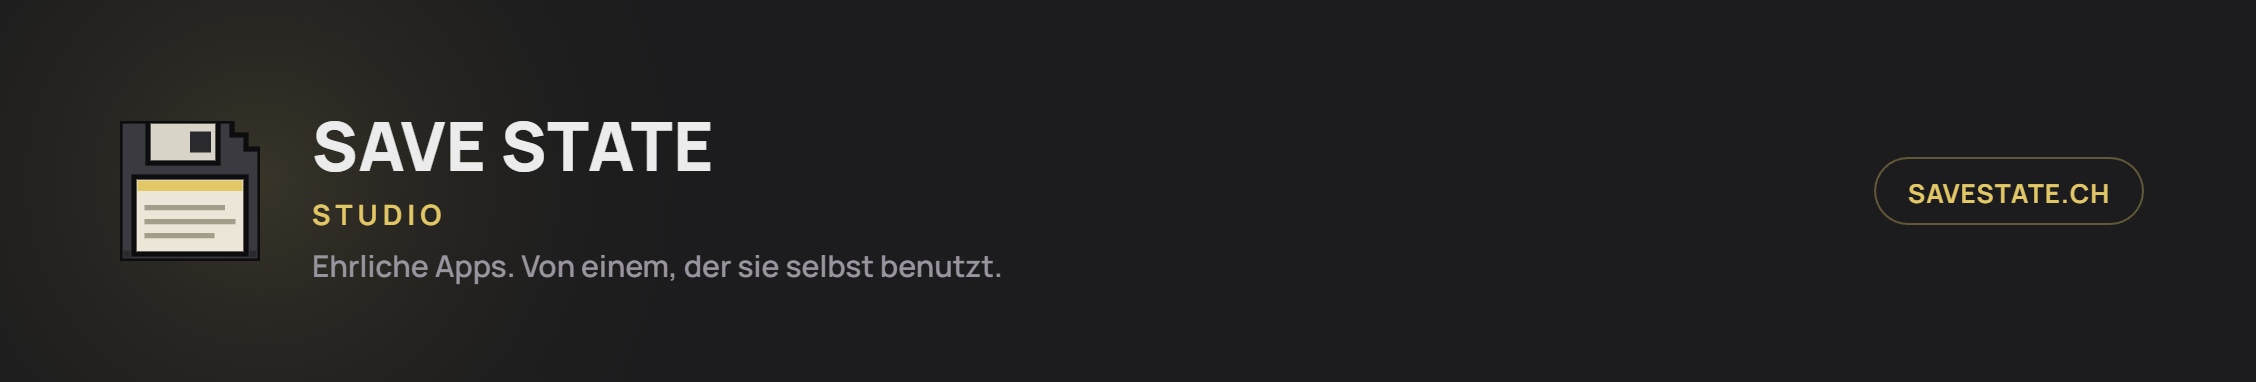
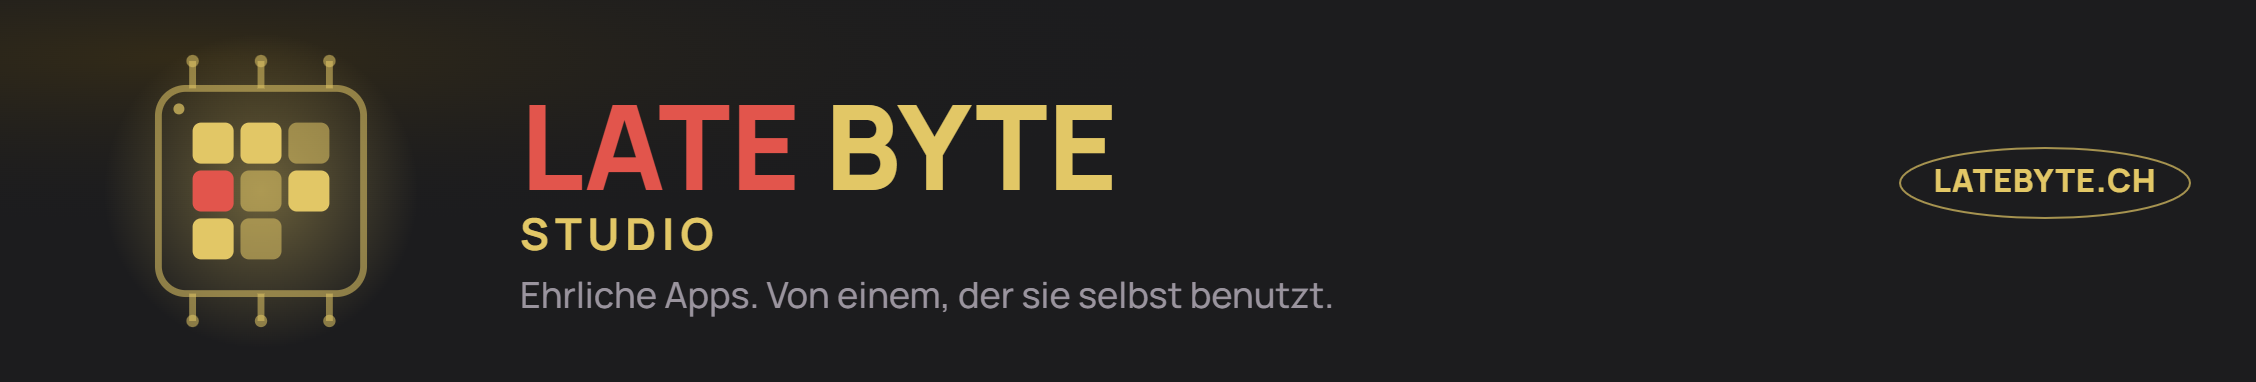
Rebrand social media kit from Save State Studio to Late Byte
The kit still had the old name, old domain (savestate.ch) and the
retired pixel-art floppy disk icon throughout - flagged as a known gap
in APEX-LIFTER/CLAUDE.md and save-state-studio/CLAUDE.md when the main
site was renamed earlier. Brings it in line with the current brand.

Content: renamed every "Save State Studio" reference to "Late Byte"
across setup steps, profile texts (LinkedIn About, Instagram bio),
content calendar, and all 5 post captions; domain/email references
switched to latebyte.ch; LinkedIn page slug and Instagram handle
suggestions updated (late-byte / latebyte).

Images: rebuilt all 6 assets (profile picture, LinkedIn banner, 4
Instagram post images) around the current chip/byte icon and gold+red
palette instead of the retired floppy disk (gold+cream+gray only),
same layout templates as before. Built as true-size SVGs (512x512,
2256x382, 1620x1620) rendered to canvas for crisp export - hit and
fixed a real bug along the way: an SVG serialized to a blob and loaded
via `new Image()` does not inherit the host page's linked Google Font,
so text silently fell back to serif. Fixed by fetching the Manrope
woff2 directly, embedding it as a base64 data URI in an in-SVG
@font-face (plus an explicit `text { font-family }` rule, since the
page's CSS selector targeting `text` doesn't carry over either), before
serializing each asset.

Changed region(s): [[0.031, 0.144, 0.5895, 0.8639], [0.8378, 0.3743, 0.9619, 0.6047]]

diff --git a/index.html b/index.html
@@ -4,7 +4,7 @@
 <meta charset="utf-8">
 <meta name="viewport" content="width=device-width, initial-scale=1">
 <title>Social Media Kit</title>
-<meta name="description" content="LinkedIn- und Instagram-Auftritt für Save State Studio: Profiltexte, Strategie, Redaktionsplan, fertige Posts und Bild-Assets.">
+<meta name="description" content="LinkedIn- und Instagram-Auftritt für Late Byte: Profiltexte, Strategie, Redaktionsplan, fertige Posts und Bild-Assets.">
 <link rel="preconnect" href="https://fonts.googleapis.com">
 <link href="https://fonts.googleapis.com/css2?family=Manrope:wght@500;600;700;800&display=swap" rel="stylesheet">
 <style>
@@ -14,6 +14,7 @@
     --card: rgba(226, 199, 102, 0.05);
     --card-border: rgba(226, 199, 102, 0.14);
     --gold: #E2C766;
+    --red: #E2554C;
     --cream: #ece6d8;
     --text: #ECECEC;
     --text-muted: #9a949e;
@@ -182,19 +183,19 @@
   </nav>
 
   <div class="hero">
-    <img class="icon" src="images/profile_picture.png" alt="Save State Studio Icon" width="56" height="56" style="border-radius:14px;">
+    <img class="icon" src="images/profile_picture.png" alt="Late Byte Icon" width="56" height="56" style="border-radius:14px;">
     <div>
       <span class="eyebrow">Social Media Kit</span>
-      <h1 class="title">Save State Studio auf LinkedIn &amp; Instagram</h1>
+      <h1 class="title">Late Byte auf LinkedIn &amp; Instagram</h1>
       <p class="lede">Kein Produkt-Marketing für Apex Lifter selbst, sondern der Auftritt für das Studio dahinter: ein Vollzeit-Job tagsüber, Code nach Feierabend, keine Investoren, kein Wachstums-Zwang — nur ehrliche Apps zu einem fairen Preis, gebaut von jemandem, der sie selbst täglich benutzt.</p>
       <div class="accounts">
         <span class="account-chip">
           <svg width="15" height="15" viewBox="0 0 24 24" fill="none" stroke="currentColor" stroke-width="2" stroke-linecap="round" stroke-linejoin="round"><rect x="2" y="9" width="4" height="12"/><circle cx="4" cy="4" r="2"/><path d="M10 9v12M10 13a4 4 0 0 1 8 0v8"/></svg>
-          LinkedIn — nicola.placi@savestate.ch
+          LinkedIn — nicola.placi@latebyte.ch
         </span>
         <span class="account-chip">
           <svg width="15" height="15" viewBox="0 0 24 24" fill="none" stroke="currentColor" stroke-width="2" stroke-linecap="round" stroke-linejoin="round"><rect x="2" y="2" width="20" height="20" rx="5"/><circle cx="12" cy="12" r="4"/><circle cx="17.5" cy="6.5" r="1"/></svg>
-          Instagram — info@savestate.ch
+          Instagram — info@latebyte.ch
         </span>
       </div>
     </div>
@@ -204,7 +205,7 @@
   <section id="setup">
     <span class="section-eyebrow">01 — Erste Schritte</span>
     <h2 class="section-title">Konten anlegen</h2>
-    <p class="section-intro">Beide Konten existieren noch nicht. Voraussetzung: die Domain <code>savestate.ch</code> und die beiden E-Mail-Adressen müssen zuerst eingerichtet sein. Danach diese Schritte mit den vorbereiteten Texten und Bildern aus diesem Kit.</p>
+    <p class="section-intro">Beide Konten existieren noch nicht. Voraussetzung: die Domain <code>latebyte.ch</code> und die beiden E-Mail-Adressen müssen zuerst eingerichtet sein. Danach diese Schritte mit den vorbereiteten Texten und Bildern aus diesem Kit.</p>
     <div class="grid-2">
       <div class="card">
         <div class="card-head">
@@ -212,13 +213,13 @@
           <h3>LinkedIn Unternehmensseite</h3>
         </div>
         <ol class="steps">
-          <li>Falls noch nicht vorhanden: erst ein <strong>persönliches</strong> LinkedIn-Profil mit <code>nicola.placi@savestate.ch</code> anlegen — eine Unternehmensseite braucht immer mindestens ein persönliches Profil als Administrator.</li>
-          <li>Oben rechts auf <strong>„Für Unternehmen“ → „Unternehmensseite erstellen“</strong>.</li>
+          <li>Falls noch nicht vorhanden: erst ein <strong>persönliches</strong> LinkedIn-Profil mit <code>nicola.placi@latebyte.ch</code> anlegen — eine Unternehmensseite braucht immer mindestens ein persönliches Profil als Administrator.</li>
+          <li>Oben rechts auf <strong>„Für Unternehmen" → „Unternehmensseite erstellen"</strong>.</li>
           <li>Seitentyp: <strong>Kleinunternehmen</strong>.</li>
-          <li>Seitenname <code>Save State Studio</code>, LinkedIn-Adresse z. B. <code>linkedin.com/company/save-state-studio</code>, Website <code>savestate.ch</code>.</li>
+          <li>Seitenname <code>Late Byte</code>, LinkedIn-Adresse z. B. <code>linkedin.com/company/late-byte</code>, Website <code>latebyte.ch</code>.</li>
           <li>Branche: <strong>Softwareentwicklung</strong>. Unternehmensgrösse: <strong>Selbstständig</strong>.</li>
           <li>Logo hochladen: <code>profile_picture.png</code>. Titelbild: <code>linkedin_banner.png</code>.</li>
-          <li>Beschreibung einfügen — Text unten unter „Profiltexte“.</li>
+          <li>Beschreibung einfügen — Text unten unter „Profiltexte".</li>
         </ol>
       </div>
       <div class="card">
@@ -227,12 +228,12 @@
           <h3>Instagram Business-Konto</h3>
         </div>
         <ol class="steps">
-          <li>In der Instagram-App: <strong>„Registrieren“</strong>, E-Mail <code>info@savestate.ch</code> verwenden.</li>
-          <li>Benutzername: <code>savestatestudio</code> (Alternative, falls vergeben: <code>save.state.studio</code> oder <code>savestate.ch</code>).</li>
-          <li>Einstellungen → Konto → <strong>„Zu professionellem Konto wechseln“</strong> → Kategorie „Softwareunternehmen“ oder „App-Seite“ → Typ <strong>Unternehmen</strong>.</li>
+          <li>In der Instagram-App: <strong>„Registrieren"</strong>, E-Mail <code>info@latebyte.ch</code> verwenden.</li>
+          <li>Benutzername: <code>latebyte</code> (Alternative, falls vergeben: <code>late.byte</code> oder <code>latebyte.ch</code>).</li>
+          <li>Einstellungen → Konto → <strong>„Zu professionellem Konto wechseln"</strong> → Kategorie „Softwareunternehmen" oder „App-Seite" → Typ <strong>Unternehmen</strong>.</li>
           <li>Profilbild hochladen: <code>profile_picture.png</code>.</li>
-          <li>Bio einfügen — Text unten unter „Profiltexte“. Website-Link: <code>savestate.ch</code>.</li>
-          <li>Kontakt-E-Mail in den Business-Einstellungen: <code>info@savestate.ch</code>.</li>
+          <li>Bio einfügen — Text unten unter „Profiltexte". Website-Link: <code>latebyte.ch</code>.</li>
+          <li>Kontakt-E-Mail in den Business-Einstellungen: <code>info@latebyte.ch</code>.</li>
         </ol>
       </div>
     </div>
@@ -242,7 +243,7 @@
   <section id="profile">
     <span class="section-eyebrow">02 — Zum Reinkopieren</span>
     <h2 class="section-title">Profiltexte</h2>
-    <p class="section-intro">In der Ich-Form geschrieben — das ist ein Ein-Personen-Studio, kein anonymes Unternehmen. Auf „Kopieren“ tippen und direkt ins jeweilige Feld einfügen.</p>
+    <p class="section-intro">In der Ich-Form geschrieben — das ist ein Ein-Personen-Studio, kein anonymes Unternehmen. Auf „Kopieren" tippen und direkt ins jeweilige Feld einfügen.</p>
     <div class="grid-2">
       <div class="card">
         <div class="card-head">
@@ -255,9 +256,9 @@
         </div>
         <div class="field">
           <div class="field-label"><span>Über uns</span><button class="copy-btn" data-copy="li-about">Kopieren</button></div>
-          <div class="field-text" id="li-about">Save State Studio ist ein Ein-Personen-Studio — geführt neben einem Vollzeit-Job, abends und am Wochenende, wenn Zeit für Familie und Code beides Platz hat.
+          <div class="field-text" id="li-about">Late Byte ist ein Ein-Personen-Studio — geführt neben einem Vollzeit-Job, abends und am Wochenende, wenn Zeit für Familie und Code beides Platz hat.
 
-Der Antrieb ist einfach: Apps bauen, die mir selbst gefehlt haben, und die ich danach jeden Tag benutze. Keine Investoren, kein Wachstums-Zwang, kein Marketing-Gerede — nur ehrliche Software zu einem fairen Preis.
+Der Name ist Programm: der Code entsteht spät, wenn die Kinder schlafen. Der Antrieb ist einfach: Apps bauen, die mir selbst gefehlt haben, und die ich danach jeden Tag benutze. Keine Investoren, kein Wachstums-Zwang, kein Marketing-Gerede — nur ehrliche Software zu einem fairen Preis.
 
 Erstes Projekt: Apex Lifter, eine native Android-Trainings-App, die ich selbst im Gym benutze. Mehr dazu: apexlifter.ch
 
@@ -275,13 +276,13 @@ Keine Werbung. Kein Tracking-Zwang. Und wer Apex Lifter schon nutzt: gerne als F
         </div>
         <div class="field">
           <div class="field-label"><span>Name</span></div>
-          <div class="field-text">Save State Studio</div>
+          <div class="field-text">Late Byte</div>
         </div>
         <div class="field">
           <div class="field-label"><span>Bio (max. 150 Zeichen)</span><button class="copy-btn" data-copy="ig-bio">Kopieren</button></div>
           <div class="field-text" id="ig-bio">Vollzeit-Job tagsüber. Code nach Feierabend.
 Ehrliche Apps, fair bepreist, ohne Ads.
-savestate.ch</div>
+latebyte.ch</div>
         </div>
         <div class="field">
           <div class="field-label"><span>Kategorie</span></div>
@@ -361,8 +362,8 @@ savestate.ch</div>
       <table class="cal">
         <thead><tr><th>Woche</th><th>Plattform</th><th>Inhalt</th></tr></thead>
         <tbody>
-          <tr><td rowspan="2">1 — Launch</td><td><span class="platform-tag li">LinkedIn</span></td><td>Build-in-Public-Ankündigung (Entwurf unten) — warum Save State Studio existiert.</td></tr>
-          <tr><td><span class="platform-tag ig">Instagram</span></td><td>Intro-Post (Entwurf 1) + Story mit Link zu savestate.ch.</td></tr>
+          <tr><td rowspan="2">1 — Launch</td><td><span class="platform-tag li">LinkedIn</span></td><td>Build-in-Public-Ankündigung (Entwurf unten) — warum Late Byte existiert.</td></tr>
+          <tr><td><span class="platform-tag ig">Instagram</span></td><td>Intro-Post (Entwurf 1) + Story mit Link zu latebyte.ch.</td></tr>
           <tr><td rowspan="2">2 — Prinzip</td><td><span class="platform-tag ig">Instagram</span></td><td>No-Bullshit-Manifest (Entwurf 2): fairer Preis, keine Ads, kein Wachstums-Zwang.</td></tr>
           <tr><td><span class="platform-tag ig">Instagram</span></td><td>Story-Umfrage: „Nervt dich Werbung in Apps auch so sehr?"</td></tr>
           <tr><td rowspan="2">3 — Beweis</td><td><span class="platform-tag ig">Instagram</span></td><td>Dogfooding-Zitat (Entwurf 3): „Ich nutze Apex Lifter jeden Tag im Gym."</td></tr>
@@ -381,22 +382,22 @@ savestate.ch</div>
     <p class="section-intro">Bild direkt aus „Assets" verwenden, Text unverändert oder als Ausgangspunkt nutzen.</p>
     <div class="post-list">
       <div class="post-card">
-        <img src="images/post1_intro.png" alt="Save State Studio Intro-Post">
+        <img src="images/post1_intro.png" alt="Late Byte Intro-Post">
         <div class="post-body">
           <div class="post-platform">Instagram — Post 1</div>
-          <div class="post-caption">Save State Studio ist da.
+          <div class="post-caption">Late Byte ist da.
 
 Ein Ein-Personen-Studio. Vollzeit-Job tagsüber, Code nach Feierabend. Keine Investoren, kein Wachstums-Zwang.
 
 Erste App: Apex Lifter — eine Trainings-App, die ich selbst jeden Tag benutze.
 
-savestate.ch</div>
+latebyte.ch</div>
           <div class="post-hashtags">#indiedev #buildinpublic #nobullshit #androiddev #soloedev</div>
         </div>
       </div>
 
       <div class="post-card">
-        <img src="images/post2_manifesto.png" alt="Save State Studio No-Bullshit-Manifest">
+        <img src="images/post2_manifesto.png" alt="Late Byte No-Bullshit-Manifest">
         <div class="post-body">
           <div class="post-platform">Instagram — Post 2</div>
           <div class="post-caption">Keine Ads. Kein Marketing-Gerede. Nur eine geile App.
@@ -409,12 +410,12 @@ No-Bullshit-Software, von jemandem, der sie täglich benutzt.</div>
       </div>
 
       <div class="post-card">
-        <img src="images/post3_quote.png" alt="Save State Studio Dogfooding-Zitat">
+        <img src="images/post3_quote.png" alt="Late Byte Dogfooding-Zitat">
         <div class="post-body">
           <div class="post-platform">Instagram — Post 3</div>
           <div class="post-caption">„Ich nutze Apex Lifter jeden Tag im Gym. Nicht weil ich muss — weil sie mir gefehlt hat, bevor ich sie gebaut habe."
 
-So einfach ist das Prinzip hinter Save State Studio: Apps, die ihr Macher selbst benutzt.
+So einfach ist das Prinzip hinter Late Byte: Apps, die ihr Macher selbst benutzt.
 
 apexlifter.ch</div>
           <div class="post-hashtags">#dogfooding #indiedev #krafttraining #buildwhatyouneed</div>
@@ -422,7 +423,7 @@ apexlifter.ch</div>
       </div>
 
       <div class="post-card">
-        <img src="images/post4_friend.png" alt="Save State Studio Freunde/Buzz-Insider-Post">
+        <img src="images/post4_friend.png" alt="Late Byte Freunde/Buzz-Insider-Post">
         <div class="post-body">
           <div class="post-platform">Instagram — Post 4</div>
           <div class="post-caption">Kleiner Insider für alle, die Apex Lifter schon nutzen:
@@ -435,16 +436,16 @@ Gebaut von einem, der nach Feierabend — und nach der Familie — noch selbst a
       </div>
 
       <div class="post-card">
-        <img src="images/linkedin_banner.png" alt="Save State Studio LinkedIn-Post" style="object-position: center;">
+        <img src="images/linkedin_banner.png" alt="Late Byte LinkedIn-Post" style="object-position: center;">
         <div class="post-body">
           <div class="post-platform">LinkedIn — Launch-Post</div>
-          <div class="post-caption">Ich habe ein neues kleines Studio gegründet: Save State Studio.
+          <div class="post-caption">Ich habe ein neues kleines Studio gegründet: Late Byte.
 
 Kein grosses Team, keine Investoren — ein Vollzeit-Job tagsüber, und abends/am Wochenende Zeit für das, was mir schon lange gefehlt hat: Software, die ehrlich ist. Fairer Preis. Keine Werbung. Kein Wachstums-Zwang um seiner selbst willen.
 
 Das erste Projekt ist bereits live: Apex Lifter, eine native Android-Trainings-App, die ich selbst jeden Tag im Gym benutze.
 
-Mehr über die Philosophie dahinter und was als Nächstes kommt: savestate.ch</div>
+Mehr über die Philosophie dahinter und was als Nächstes kommt: latebyte.ch</div>
           <div class="post-hashtags">#buildinpublic #indiedev #softwarecraft #nobullshit</div>
         </div>
       </div>
@@ -455,7 +456,7 @@ Mehr über die Philosophie dahinter und was als Nächstes kommt: savestate.ch</d
   <section id="assets">
     <span class="section-eyebrow">06 — Bild-Material</span>
     <h2 class="section-title">Assets</h2>
-    <p class="section-intro">Pixel-Art-Disketten-Icon in Gold auf Dunkelgrau, Manrope als Schrift — bewusst reduzierter als das Apex-Lifter-Branding: kein Violett, nur Gold + Grau + Cream, für einen ruhigeren, persönlicheren „Studio statt Produkt"-Look.</p>
+    <p class="section-intro">Chip/Byte-Icon (ein Prozessor mit 8 Bits, eines davon rot) in Gold + Rot auf Dunkelgrau, Manrope als Schrift — das Studio-eigene Zwei-Farben-System, bewusst anders als das violette Apex-Lifter-Branding, für einen ruhigeren, persönlicheren „Studio statt Produkt"-Look.</p>
     <div class="asset-grid">
       <div class="asset-card">
         <img class="round" src="images/profile_picture.png" alt="Profilbild">
@@ -490,7 +491,7 @@ Mehr über die Philosophie dahinter und was als Nächstes kommt: savestate.ch</d
     </div>
   </section>
 
-  <footer class="note">Save State Studio — das Studio hinter Apex Lifter (apexlifter.ch). Pixel-Disketten-Icon, Gold-Akzent und Manrope-Schrift bewusst reduzierter gehalten als das Produkt-Branding.</footer>
+  <footer class="note">Late Byte — das Studio hinter Apex Lifter (apexlifter.ch). Chip/Byte-Icon, Gold+Rot-Akzente und Manrope-Schrift — dieselbe Marke wie auf latebyte.ch, hier fürs Social-Media-Format aufbereitet.</footer>
 </div>
 
 <script>

diff --git a/README.md b/README.md
@@ -1,10 +1,10 @@
-# Save State Studio — Social Media Kit
+# Late Byte — Social Media Kit
 
-Standalone reference page for the Save State Studio LinkedIn/Instagram
-launch. This is the studio behind [Apex Lifter](https://apexlifter.ch),
-not the product itself: a one-person studio run in the evenings and
-weekends alongside a full-time job, focused on honest software at a
-fair price — no ads, no growth-hacking, no marketing fluff.
+Standalone reference page for the Late Byte LinkedIn/Instagram launch.
+This is the studio behind [Apex Lifter](https://apexlifter.ch), not the
+product itself: a one-person studio run in the evenings and weekends
+alongside a full-time job, focused on honest software at a fair price —
+no ads, no growth-hacking, no marketing fluff.
 
 Open `index.html` directly in a browser, or serve the folder with any
 static file server.
@@ -15,6 +15,6 @@ static file server.
   content strategy, a four-week content calendar, five ready post
   drafts (4 Instagram + 1 LinkedIn), and all image assets
 - `images/` — profile picture, LinkedIn banner, and 4 Instagram post
-  images, all built around the pixel-art floppy disk icon and gold
-  accent (deliberately without the Apex Lifter product's violet, for a
-  calmer "studio, not product" look)
+  images, all built around the studio's chip/byte icon (a processor
+  outline containing 8 small bits — a literal byte — with one bit in
+  red) and gold+red accent, matching the current latebyte.ch brand
